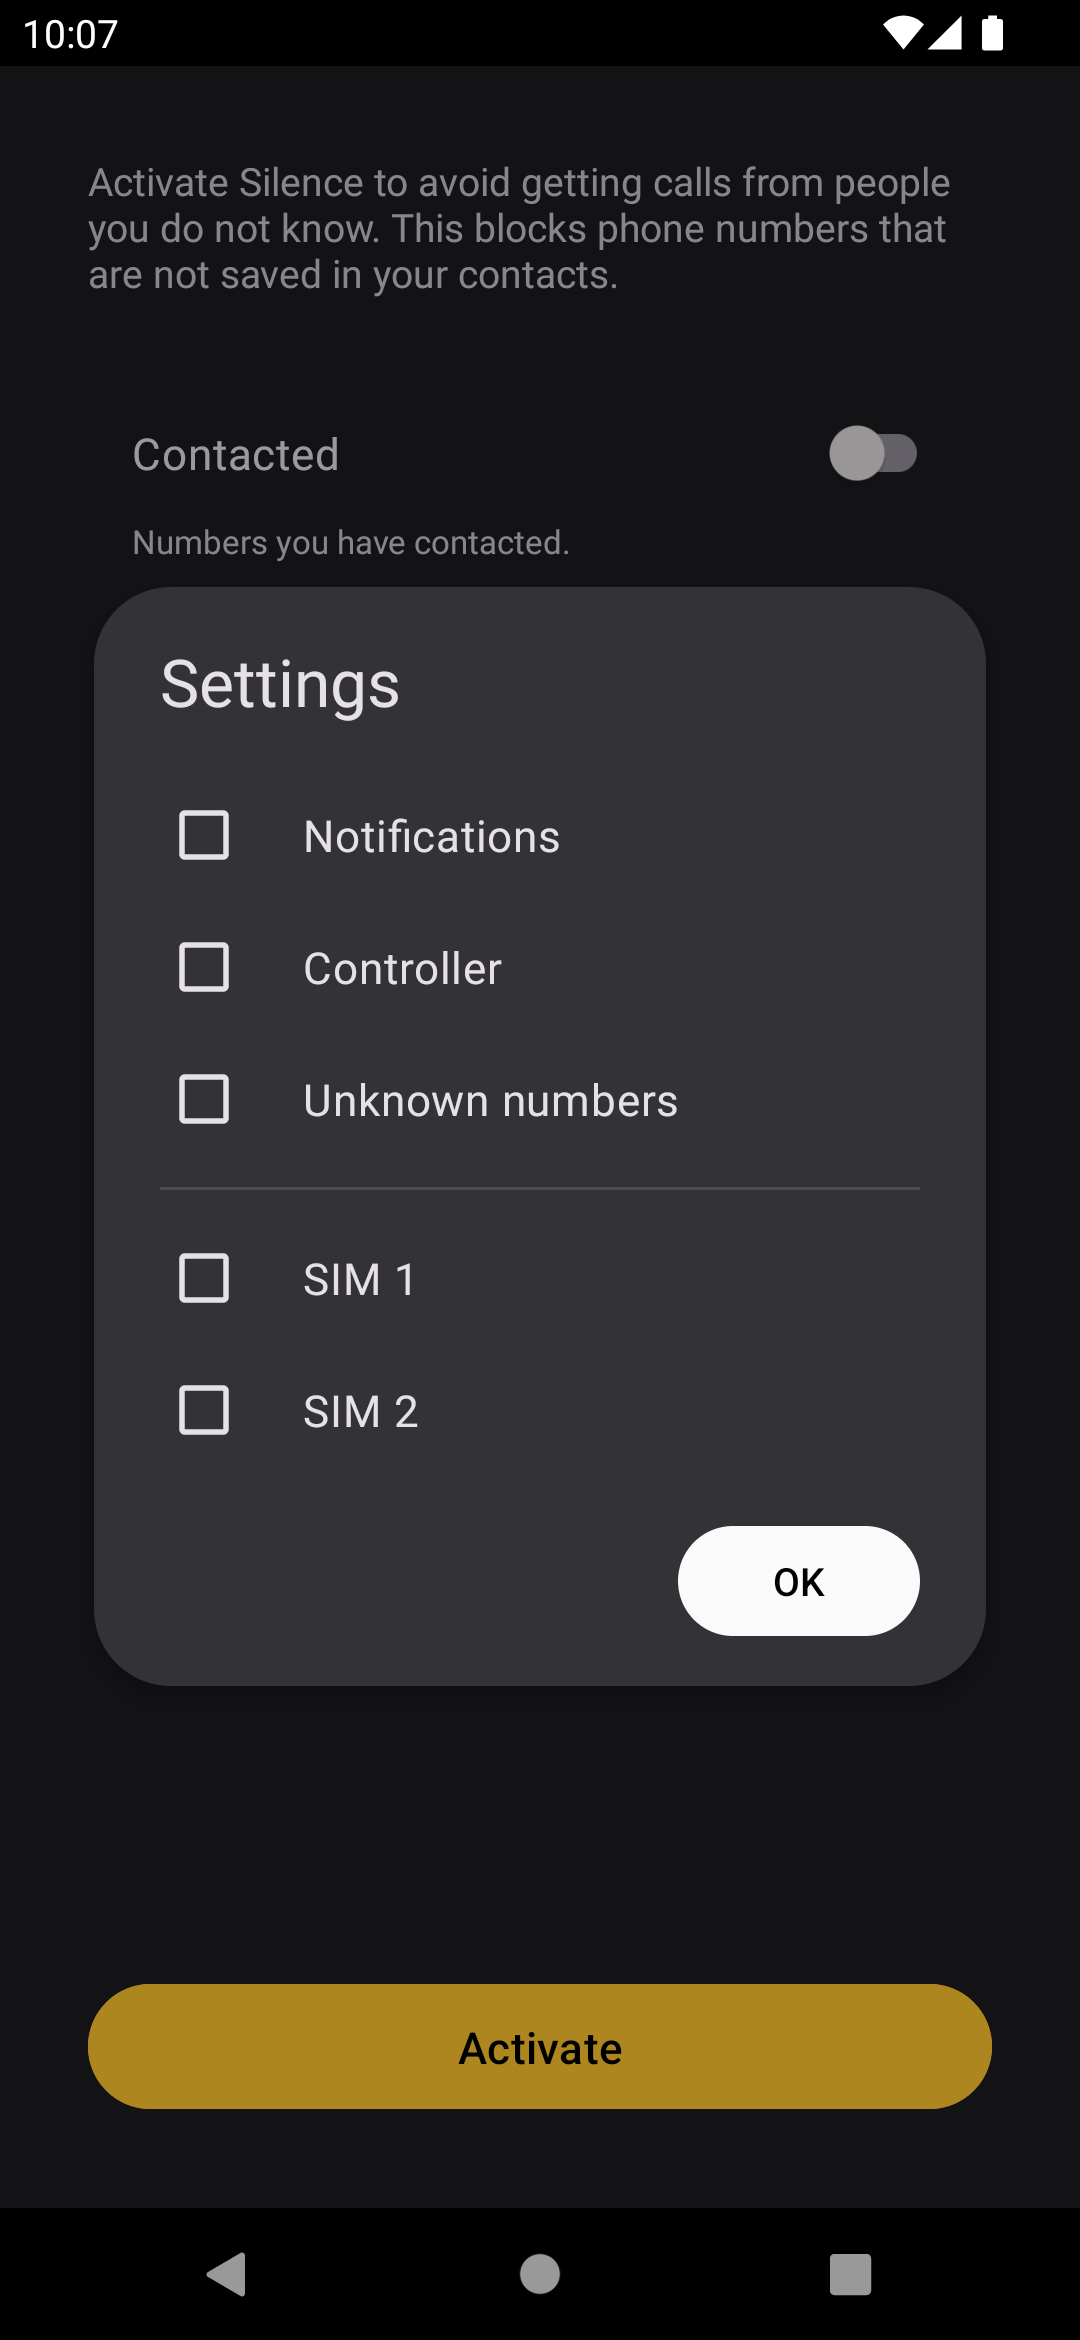
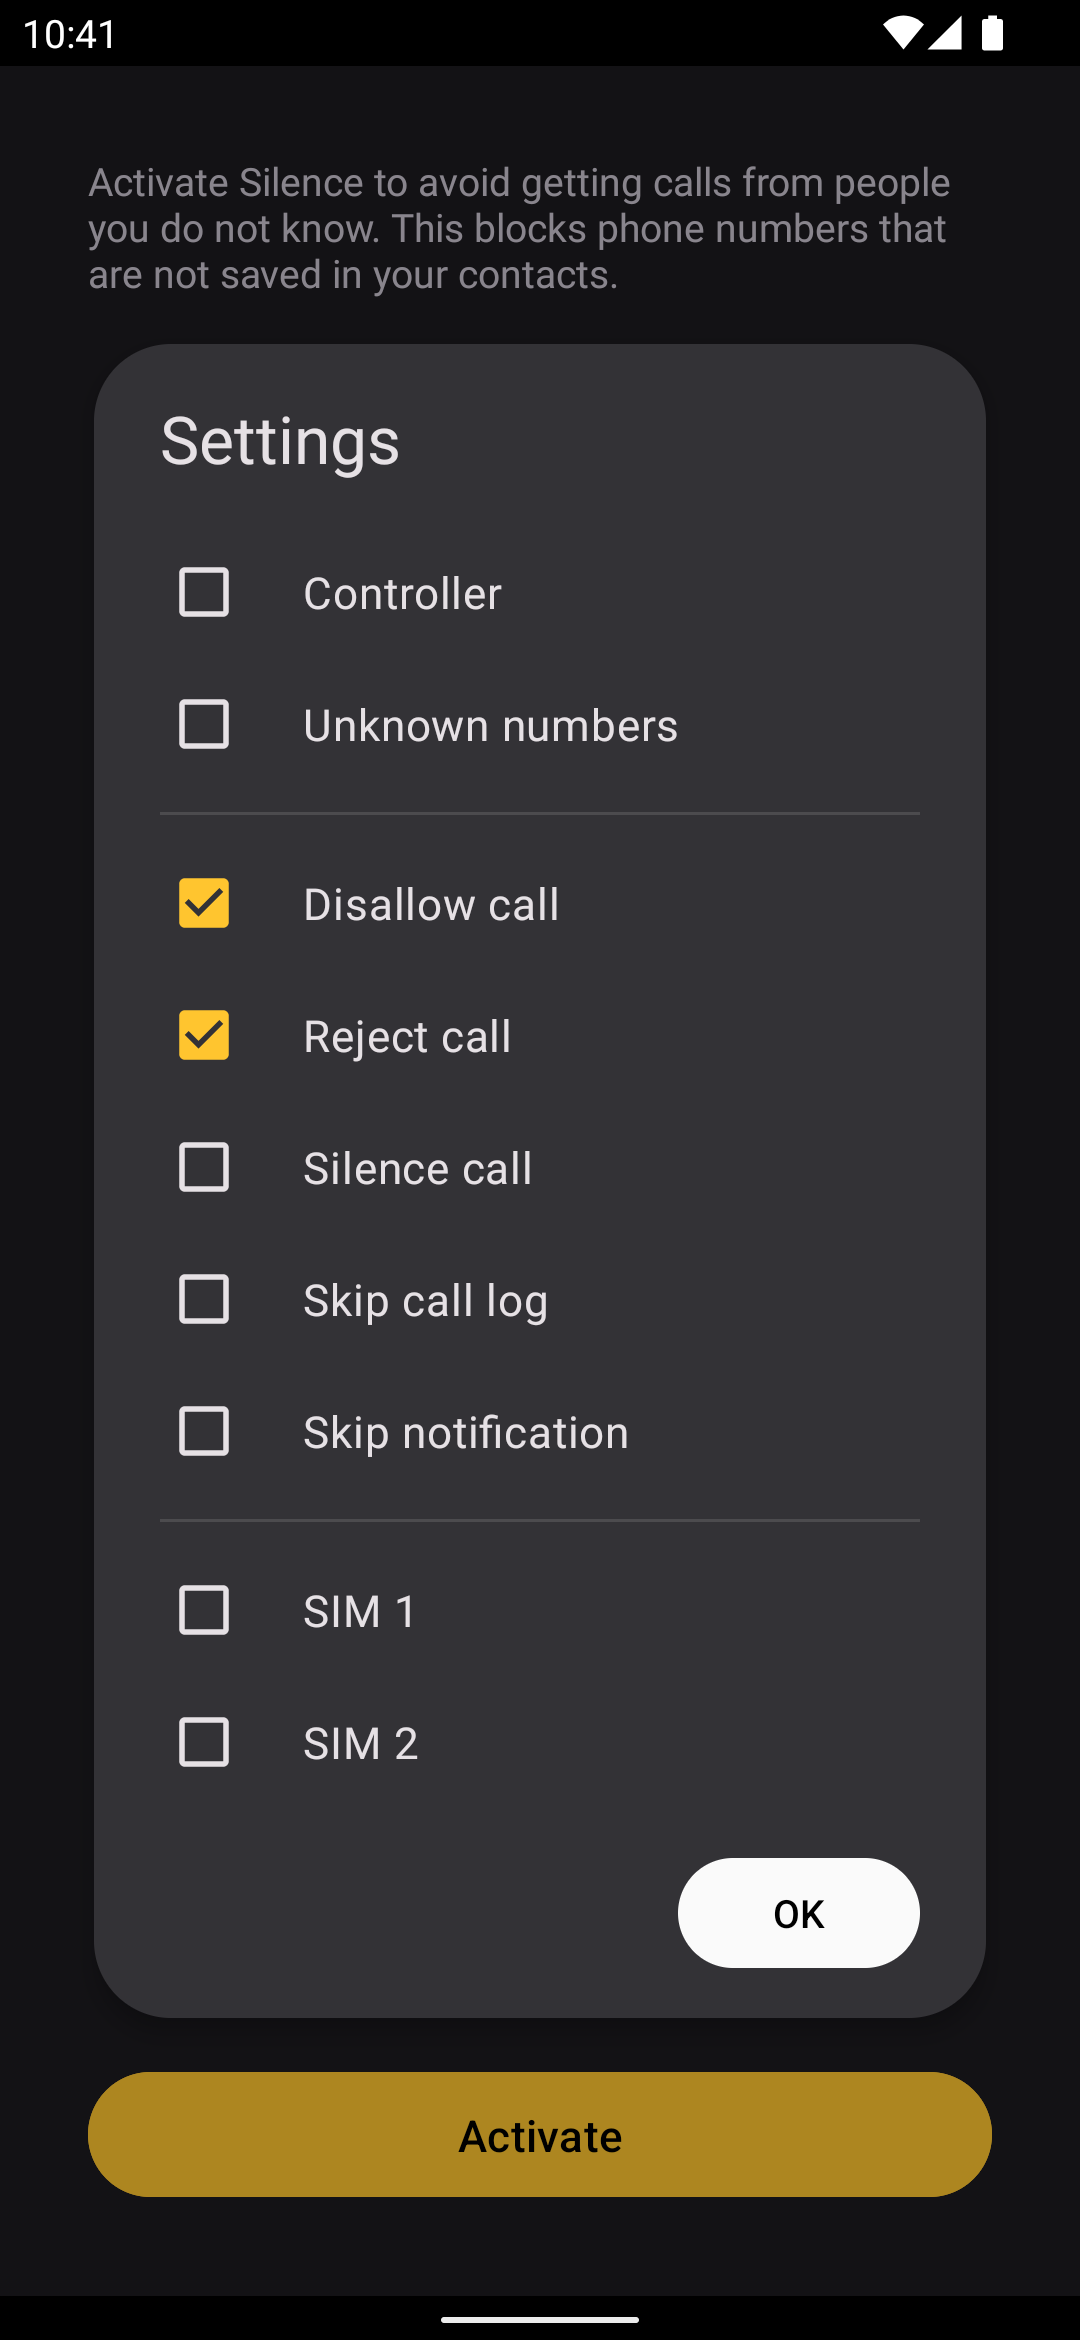
add response options to general settings

diff --git a/app/src/main/java/me/lucky/silence/MainActivity.kt b/app/src/main/java/me/lucky/silence/MainActivity.kt
@@ -23,10 +23,10 @@ open class MainActivity : AppCompatActivity() {
     private var roleManager: RoleManager? = null
 
     private val prefsListener = SharedPreferences.OnSharedPreferenceChangeListener { _, key ->
-        if (key == Preferences.SERVICE_ENABLED) {
+        if (key == Preferences.ENABLED) {
             Utils.setSmsReceiverState(
                 this,
-                prefs.isServiceEnabled &&
+                prefs.isEnabled &&
                         prefs.isMessagesChecked &&
                         prefs.messages.and(Message.BODY.value) != 0,
             )
@@ -36,7 +36,7 @@ open class MainActivity : AppCompatActivity() {
 
     private val registerForCallScreeningRole =
         registerForActivityResult(ActivityResultContracts.StartActivityForResult()) {
-            prefs.isServiceEnabled = it.resultCode == RESULT_OK
+            prefs.isEnabled = it.resultCode == RESULT_OK
         }
 
     private val registerForContactedPermissions =
@@ -102,8 +102,8 @@ open class MainActivity : AppCompatActivity() {
                 prefs.isStirChecked = isChecked
             }
             toggle.setOnClickListener {
-                val state = prefs.isServiceEnabled
-                prefs.isServiceEnabled = !state
+                val state = prefs.isEnabled
+                prefs.isEnabled = !state
                 if (!state) requestCallScreeningRole()
             }
             toggle.setOnLongClickListener {
@@ -140,7 +140,7 @@ open class MainActivity : AppCompatActivity() {
         updateRepeated()
         updateMessages()
         updateToggle()
-        if (prefs.isServiceEnabled && !Utils.hasCallScreeningRole(this))
+        if (prefs.isEnabled && !Utils.hasCallScreeningRole(this))
             Snackbar.make(
                 binding.toggle,
                 getString(R.string.service_unavailable_popup),
@@ -192,7 +192,7 @@ open class MainActivity : AppCompatActivity() {
     private fun updateToggle() {
         val stringId: Int
         val colorId: Int
-        if (prefs.isServiceEnabled) {
+        if (prefs.isEnabled) {
             stringId = R.string.toggle_on
             colorId = R.color.icon_color_red
         } else {
@@ -312,36 +312,72 @@ open class MainActivity : AppCompatActivity() {
     }
 
     private fun showGeneralSettings() {
-        var isNotificationsChecked = prefs.isGeneralNotificationsChecked
         var isUnknownNumbersChecked = prefs.isGeneralUnknownNumbersChecked
+        var isControllerChecked = Utils.getComponentState(this, ControlReceiver::class.java)
+        var responseOptions = prefs.responseOptions
         var sim = prefs.sim
         @Suppress("InflateParams")
         val view = layoutInflater.inflate(R.layout.general_settings, null)
         val hasApi31 = Build.VERSION.SDK_INT >= Build.VERSION_CODES.S
         val isMultiSim = Utils.getModemCount(this) >= 2
-        val notifications = view.findViewById<CheckBox>(R.id.notifications)
         val unknownNumbers = view.findViewById<CheckBox>(R.id.unknownNumbers)
         val controller = view.findViewById<CheckBox>(R.id.controller)
+        val disallowCall = view.findViewById<CheckBox>(R.id.disallowCall)
+        val rejectCall = view.findViewById<CheckBox>(R.id.rejectCall)
+        val silenceCall = view.findViewById<CheckBox>(R.id.silenceCall)
+        val skipCallLog = view.findViewById<CheckBox>(R.id.skipCallLog)
+        val skipNotification = view.findViewById<CheckBox>(R.id.skipNotification)
         val sim1 = view.findViewById<CheckBox>(R.id.sim1)
         val sim2 = view.findViewById<CheckBox>(R.id.sim2)
-        notifications.isChecked = isNotificationsChecked
         unknownNumbers.isChecked = isUnknownNumbersChecked
-        controller.isChecked = Utils.getComponentState(this, ControlReceiver::class.java)
+        controller.isChecked = isControllerChecked
+        disallowCall.isChecked = responseOptions.and(ResponseOption.DisallowCall.value) != 0
+        rejectCall.isChecked = responseOptions.and(ResponseOption.RejectCall.value) != 0
+        silenceCall.isChecked = responseOptions.and(ResponseOption.SilenceCall.value) != 0
+        skipCallLog.isChecked = responseOptions.and(ResponseOption.SkipCallLog.value) != 0
+        skipNotification.isChecked = responseOptions.and(ResponseOption.SkipNotification.value) != 0
         sim1.isChecked = sim.and(Sim.SIM_1.value) != 0
         sim2.isChecked = sim.and(Sim.SIM_2.value) != 0
         if (!hasApi31 || !isMultiSim) {
-            view.findViewById<View>(R.id.divider).visibility = View.GONE
+            view.findViewById<View>(R.id.divider2).visibility = View.GONE
             sim1.visibility = View.GONE
             sim2.visibility = View.GONE
-        }
-        notifications.setOnCheckedChangeListener { _, isChecked ->
-            isNotificationsChecked = isChecked
         }
         unknownNumbers.setOnCheckedChangeListener { _, isChecked ->
             isUnknownNumbersChecked = isChecked
         }
         controller.setOnCheckedChangeListener { _, isChecked ->
-            Utils.setComponentState(this, ControlReceiver::class.java, isChecked)
+            isControllerChecked = isChecked
+        }
+        disallowCall.setOnCheckedChangeListener { _, isChecked ->
+            responseOptions = when (isChecked) {
+                true -> responseOptions.or(ResponseOption.DisallowCall.value)
+                false -> responseOptions.and(ResponseOption.DisallowCall.value.inv())
+            }
+        }
+        rejectCall.setOnCheckedChangeListener { _, isChecked ->
+            responseOptions = when (isChecked) {
+                true -> responseOptions.or(ResponseOption.RejectCall.value)
+                false -> responseOptions.and(ResponseOption.RejectCall.value.inv())
+            }
+        }
+        silenceCall.setOnCheckedChangeListener { _, isChecked ->
+            responseOptions = when (isChecked) {
+                true -> responseOptions.or(ResponseOption.SilenceCall.value)
+                false -> responseOptions.and(ResponseOption.SilenceCall.value.inv())
+            }
+        }
+        skipCallLog.setOnCheckedChangeListener { _, isChecked ->
+            responseOptions = when (isChecked) {
+                true -> responseOptions.or(ResponseOption.SkipCallLog.value)
+                false -> responseOptions.and(ResponseOption.SkipCallLog.value.inv())
+            }
+        }
+        skipNotification.setOnCheckedChangeListener { _, isChecked ->
+            responseOptions = when (isChecked) {
+                true -> responseOptions.or(ResponseOption.SkipNotification.value)
+                false -> responseOptions.and(ResponseOption.SkipNotification.value.inv())
+            }
         }
         sim1.setOnCheckedChangeListener { _, isChecked ->
             sim = when (isChecked) {
@@ -359,8 +395,9 @@ open class MainActivity : AppCompatActivity() {
             .setTitle(R.string.settings)
             .setView(view)
             .setPositiveButton(android.R.string.ok) { _, _ ->
-                prefs.isGeneralNotificationsChecked = isNotificationsChecked
                 prefs.isGeneralUnknownNumbersChecked = isUnknownNumbersChecked
+                Utils.setComponentState(this, ControlReceiver::class.java, isControllerChecked)
+                prefs.responseOptions = responseOptions
                 prefs.sim = sim
                 if (hasApi31 && isMultiSim && (
                     sim.and(Sim.SIM_1.value) != 0 ||

diff --git a/app/src/main/java/me/lucky/silence/Preferences.kt b/app/src/main/java/me/lucky/silence/Preferences.kt
@@ -7,7 +7,7 @@ import androidx.preference.PreferenceManager
 
 class Preferences(ctx: Context) {
     companion object {
-        const val SERVICE_ENABLED = "service_enabled"
+        const val ENABLED = "enabled"
         private const val CONTACTED_CHECKED = "contacted_checked"
         private const val REPEATED_CHECKED = "repeated_checked"
         private const val MESSAGES_CHECKED = "messages_checked"
@@ -19,19 +19,23 @@ class Preferences(ctx: Context) {
         private const val REPEATED_COUNT = "repeated_count"
         private const val REPEATED_MINUTES = "repeated_minutes"
         private const val MESSAGES = "messages"
-        private const val GENERAL_NOTIFICATIONS_CHECKED = "general_notifications_checked"
+
+        private const val RESPONSE_OPTIONS = "call_screening_response_options"
         private const val GENERAL_UNKNOWN_NUMBERS_CHECKED = "general_unknown_numbers_checked"
         private const val SIM = "sim"
 
         private const val DEFAULT_REPEATED_COUNT = 3
         private const val DEFAULT_REPEATED_MINUTES = 5
+
+        // migration
+        const val SERVICE_ENABLED = "service_enabled"
     }
 
     private val prefs = PreferenceManager.getDefaultSharedPreferences(ctx)
 
-    var isServiceEnabled: Boolean
-        get() = prefs.getBoolean(SERVICE_ENABLED, false)
-        set(value) = prefs.edit { putBoolean(SERVICE_ENABLED, value) }
+    var isEnabled: Boolean
+        get() = prefs.getBoolean(ENABLED, prefs.getBoolean(SERVICE_ENABLED, false))
+        set(value) = prefs.edit { putBoolean(ENABLED, value) }
 
     var isContactedChecked: Boolean
         get() = prefs.getBoolean(CONTACTED_CHECKED, false)
@@ -73,13 +77,16 @@ class Preferences(ctx: Context) {
         get() = prefs.getBoolean(STIR_CHECKED, false)
         set(value) = prefs.edit { putBoolean(STIR_CHECKED, value) }
 
-    var isGeneralNotificationsChecked: Boolean
-        get() = prefs.getBoolean(GENERAL_NOTIFICATIONS_CHECKED, false)
-        set(value) = prefs.edit { putBoolean(GENERAL_NOTIFICATIONS_CHECKED, value) }
-
     var isGeneralUnknownNumbersChecked: Boolean
         get() = prefs.getBoolean(GENERAL_UNKNOWN_NUMBERS_CHECKED, false)
         set(value) = prefs.edit { putBoolean(GENERAL_UNKNOWN_NUMBERS_CHECKED, value) }
+
+    var responseOptions: Int
+        get() = prefs.getInt(
+            RESPONSE_OPTIONS,
+            ResponseOption.DisallowCall.value.or(ResponseOption.RejectCall.value),
+        )
+        set(value) = prefs.edit { putInt(RESPONSE_OPTIONS, value) }
 
     var sim: Int
         get() = prefs.getInt(SIM, 0)
@@ -108,6 +115,14 @@ enum class Group(val value: Int) {
 enum class Message(val value: Int) {
     INBOX(1),
     BODY(1 shl 1),
+}
+
+enum class ResponseOption(val value: Int) {
+    DisallowCall(1),
+    RejectCall(1 shl 1),
+    SilenceCall(1 shl 2),
+    SkipCallLog(1 shl 3),
+    SkipNotification(1 shl 4),
 }
 
 enum class Sim(val value: Int) {

diff --git a/app/src/main/java/me/lucky/silence/CallScreeningService.kt b/app/src/main/java/me/lucky/silence/CallScreeningService.kt
@@ -7,11 +7,10 @@ import android.telecom.Connection
 import android.telephony.SubscriptionManager
 import android.telephony.TelephonyManager
 import androidx.annotation.RequiresApi
-import kotlin.properties.Delegates
-
 import com.google.i18n.phonenumbers.NumberParseException
 import com.google.i18n.phonenumbers.PhoneNumberUtil
 import com.google.i18n.phonenumbers.Phonenumber
+import kotlin.properties.Delegates
 
 class CallScreeningService : CallScreeningService() {
     private lateinit var prefs: Preferences
@@ -37,11 +36,11 @@ class CallScreeningService : CallScreeningService() {
     }
 
     override fun onScreenCall(callDetails: Call.Details) {
-        if (!prefs.isServiceEnabled) {
+        if (!prefs.isEnabled) {
             respondAllow(callDetails)
             return
         } else if (checkEmergency(callDetails)) {
-            prefs.isServiceEnabled = false
+            prefs.isEnabled = false
             Utils.setSmsReceiverState(this, false)
             respondAllow(callDetails)
             return
@@ -73,17 +72,24 @@ class CallScreeningService : CallScreeningService() {
     }
 
     private fun respondReject(callDetails: Call.Details) {
-        val isNotify = prefs.isGeneralNotificationsChecked
+        val responseOptions = prefs.responseOptions
+        val disallowCall = responseOptions.and(ResponseOption.DisallowCall.value) != 0
         val tel = callDetails.handle?.schemeSpecificPart
+        val isNotify = responseOptions.and(ResponseOption.SkipNotification.value) == 0
+                && tel != null
         respondToCall(
             callDetails,
             CallResponse.Builder()
-                .setDisallowCall(true)
-                .setRejectCall(true)
-                .setSkipNotification(!isNotify || tel == null)
+                .setDisallowCall(disallowCall)
+                .setRejectCall(responseOptions.and(ResponseOption.RejectCall.value) != 0
+                        && disallowCall)
+                .setSilenceCall(responseOptions.and(ResponseOption.SilenceCall.value) != 0)
+                .setSkipCallLog(responseOptions.and(ResponseOption.SkipCallLog.value) != 0
+                        && disallowCall)
+                .setSkipNotification(!isNotify && disallowCall)
                 .build(),
         )
-        if (isNotify) notificationManager.notifyBlockedCall(tel)
+        if (isNotify && disallowCall) notificationManager.notifyBlockedCall(tel)
     }
 
     private fun checkStir(callDetails: Call.Details): Boolean {

diff --git a/app/src/main/java/me/lucky/silence/TileService.kt b/app/src/main/java/me/lucky/silence/TileService.kt
@@ -8,7 +8,7 @@ class TileService : TileService() {
     private lateinit var prefs: Preferences
 
     private val prefsListener = SharedPreferences.OnSharedPreferenceChangeListener { _, key ->
-        if (key == Preferences.SERVICE_ENABLED) update()
+        if (key == Preferences.ENABLED) update()
     }
 
     override fun onCreate() {
@@ -19,7 +19,7 @@ class TileService : TileService() {
     override fun onClick() {
         super.onClick()
         val state = qsTile.state == Tile.STATE_INACTIVE
-        prefs.isServiceEnabled = state
+        prefs.isEnabled = state
         Utils.setSmsReceiverState(
             this,
             state && prefs.isMessagesChecked && prefs.messages.and(Message.BODY.value) != 0,
@@ -40,7 +40,7 @@ class TileService : TileService() {
     private fun update() {
         qsTile.state = when {
             !Utils.hasCallScreeningRole(this) -> Tile.STATE_UNAVAILABLE
-            prefs.isServiceEnabled -> Tile.STATE_ACTIVE
+            prefs.isEnabled -> Tile.STATE_ACTIVE
             else -> Tile.STATE_INACTIVE
         }
         qsTile.updateTile()

diff --git a/app/src/main/java/me/lucky/silence/NotificationManager.kt b/app/src/main/java/me/lucky/silence/NotificationManager.kt
@@ -28,7 +28,7 @@ class NotificationManager(private val ctx: Context) {
             NOTIFICATION_BLOCKED_CALLS_ID,
             NotificationCompat.Builder(ctx, CHANNEL_BLOCKED_CALLS_ID)
                 .setSmallIcon(R.drawable.ic_tile)
-                .setContentTitle(ctx.getString(R.string.notification_blocked_calls_title))
+                .setContentTitle(ctx.getString(R.string.notification_blocked_call_title))
                 .setContentText(tel)
                 .setPriority(NotificationCompat.PRIORITY_DEFAULT)
                 .setCategory(NotificationCompat.CATEGORY_STATUS)

diff --git a/app/src/main/java/me/lucky/silence/PanicResponderActivity.kt b/app/src/main/java/me/lucky/silence/PanicResponderActivity.kt
@@ -13,7 +13,7 @@ class PanicResponderActivity : AppCompatActivity() {
             finishAndRemoveTask()
             return
         }
-        Preferences(this).isServiceEnabled = false
+        Preferences(this).isEnabled = false
         Utils.setSmsReceiverState(this, false)
         if (PanicResponder.receivedTriggerFromConnectedApp(this))
             AppDatabase.getInstance(this).allowNumberDao().deleteAll()

diff --git a/app/src/main/java/me/lucky/silence/ControlReceiver.kt b/app/src/main/java/me/lucky/silence/ControlReceiver.kt
@@ -34,7 +34,7 @@ class ControlReceiver : BroadcastReceiver() {
 
     private fun setGlobalState(ctx: Context, state: Boolean) {
         Preferences(ctx).apply {
-            isServiceEnabled = state
+            isEnabled = state
             Utils.setSmsReceiverState(
                 ctx,
                 state && isMessagesChecked && messages.and(Message.BODY.value) != 0,
